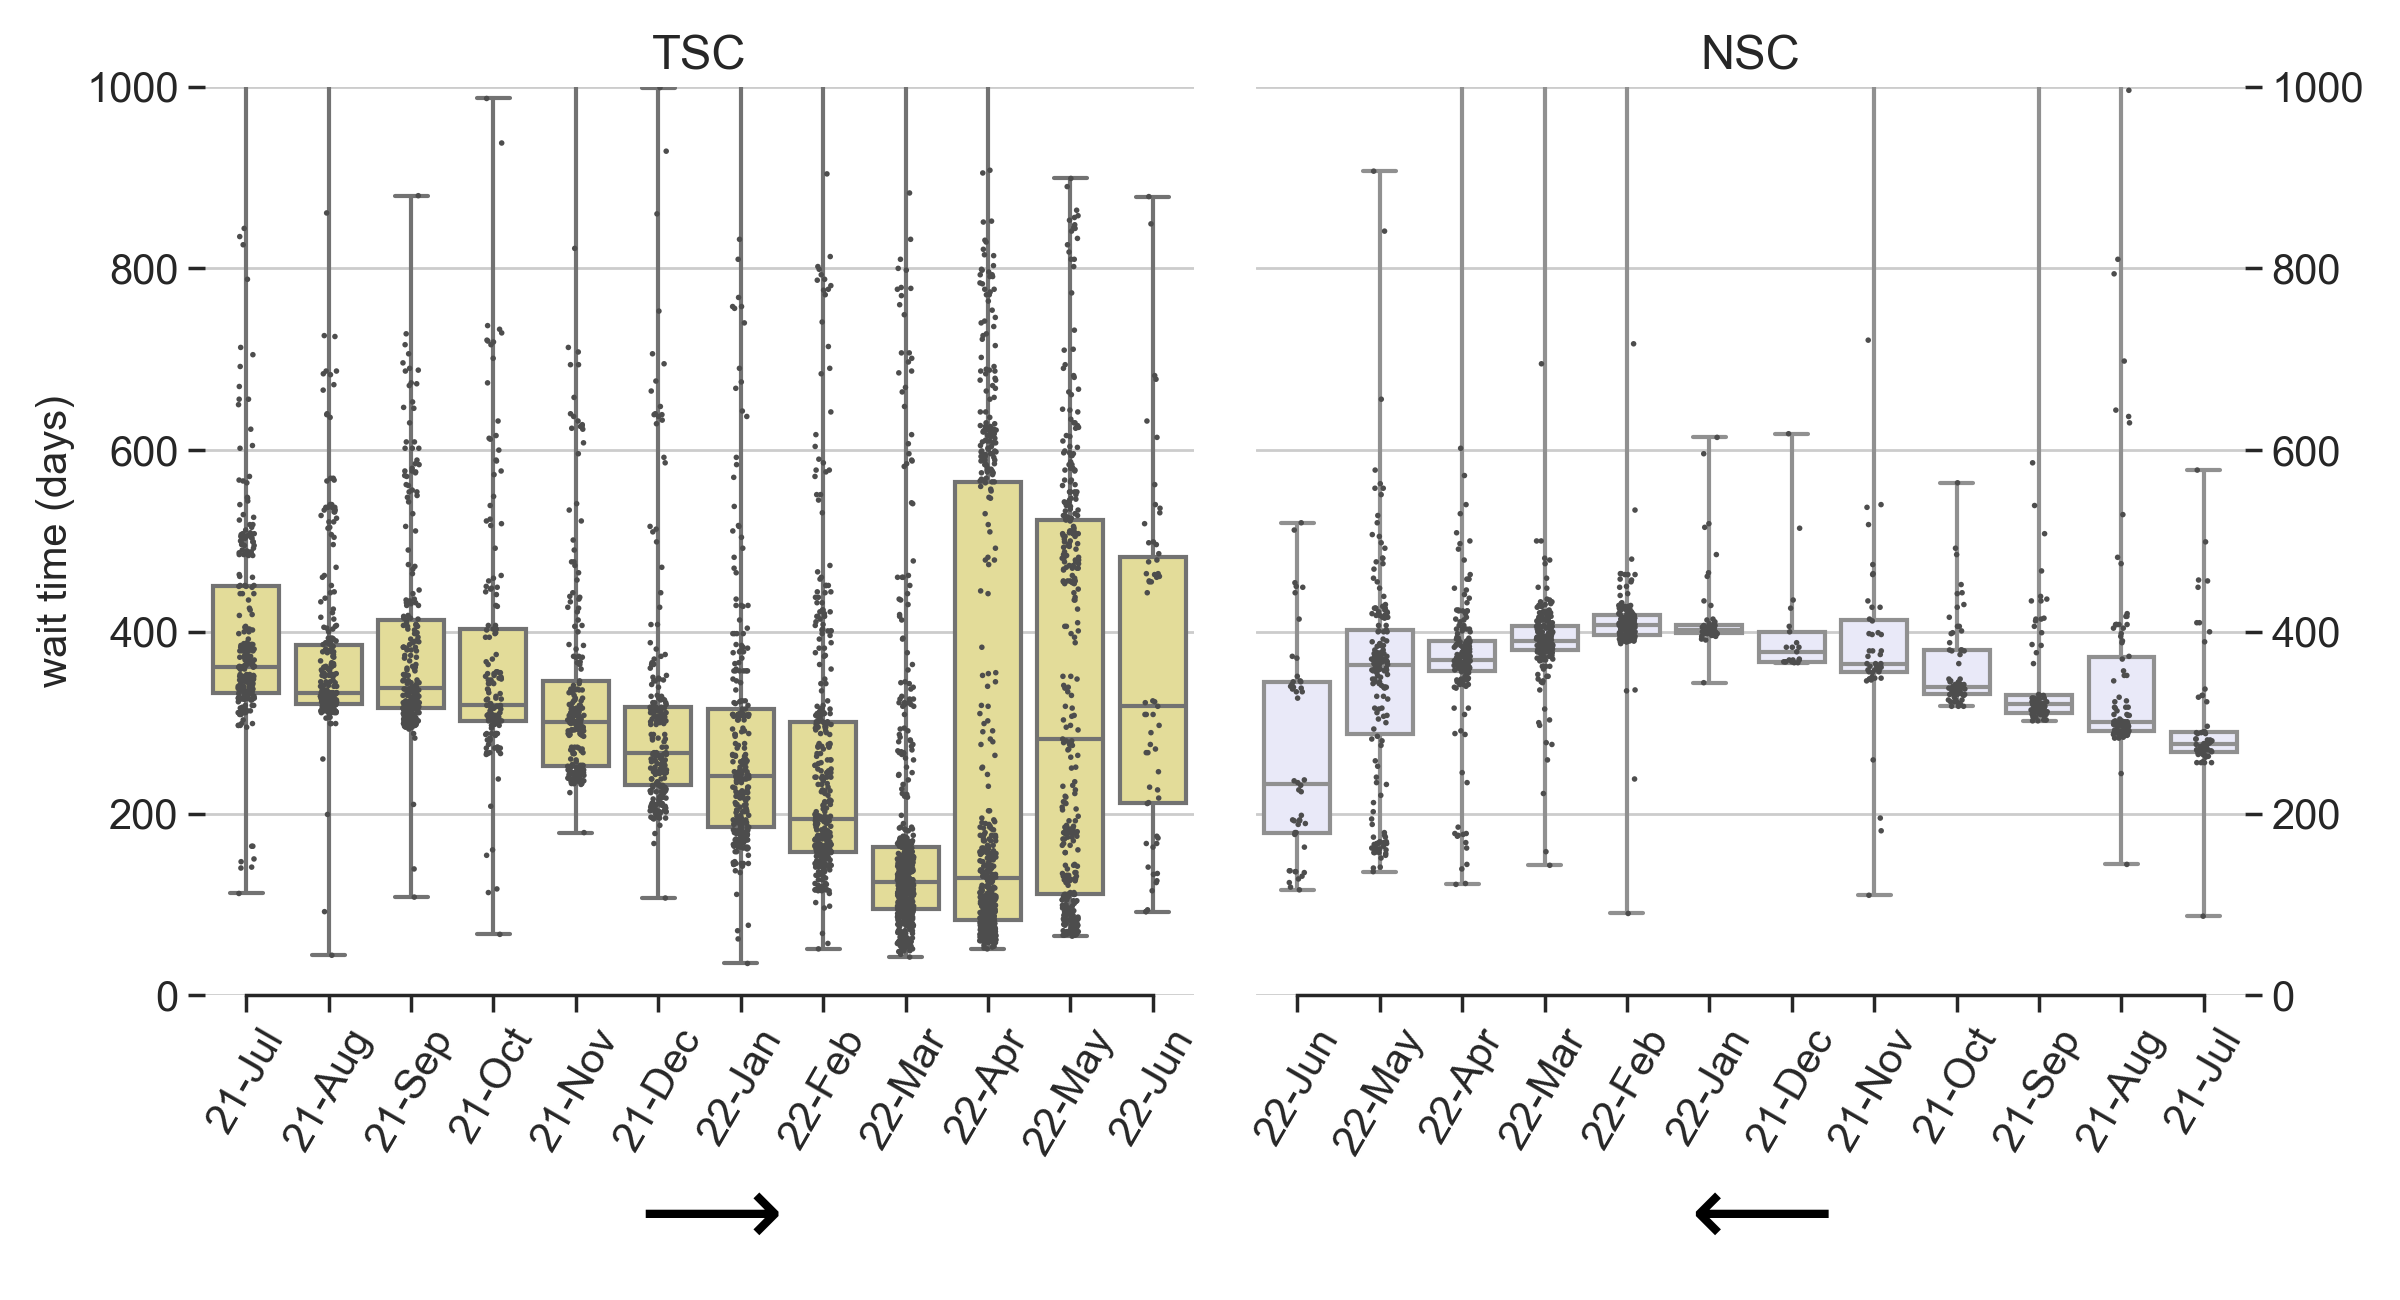
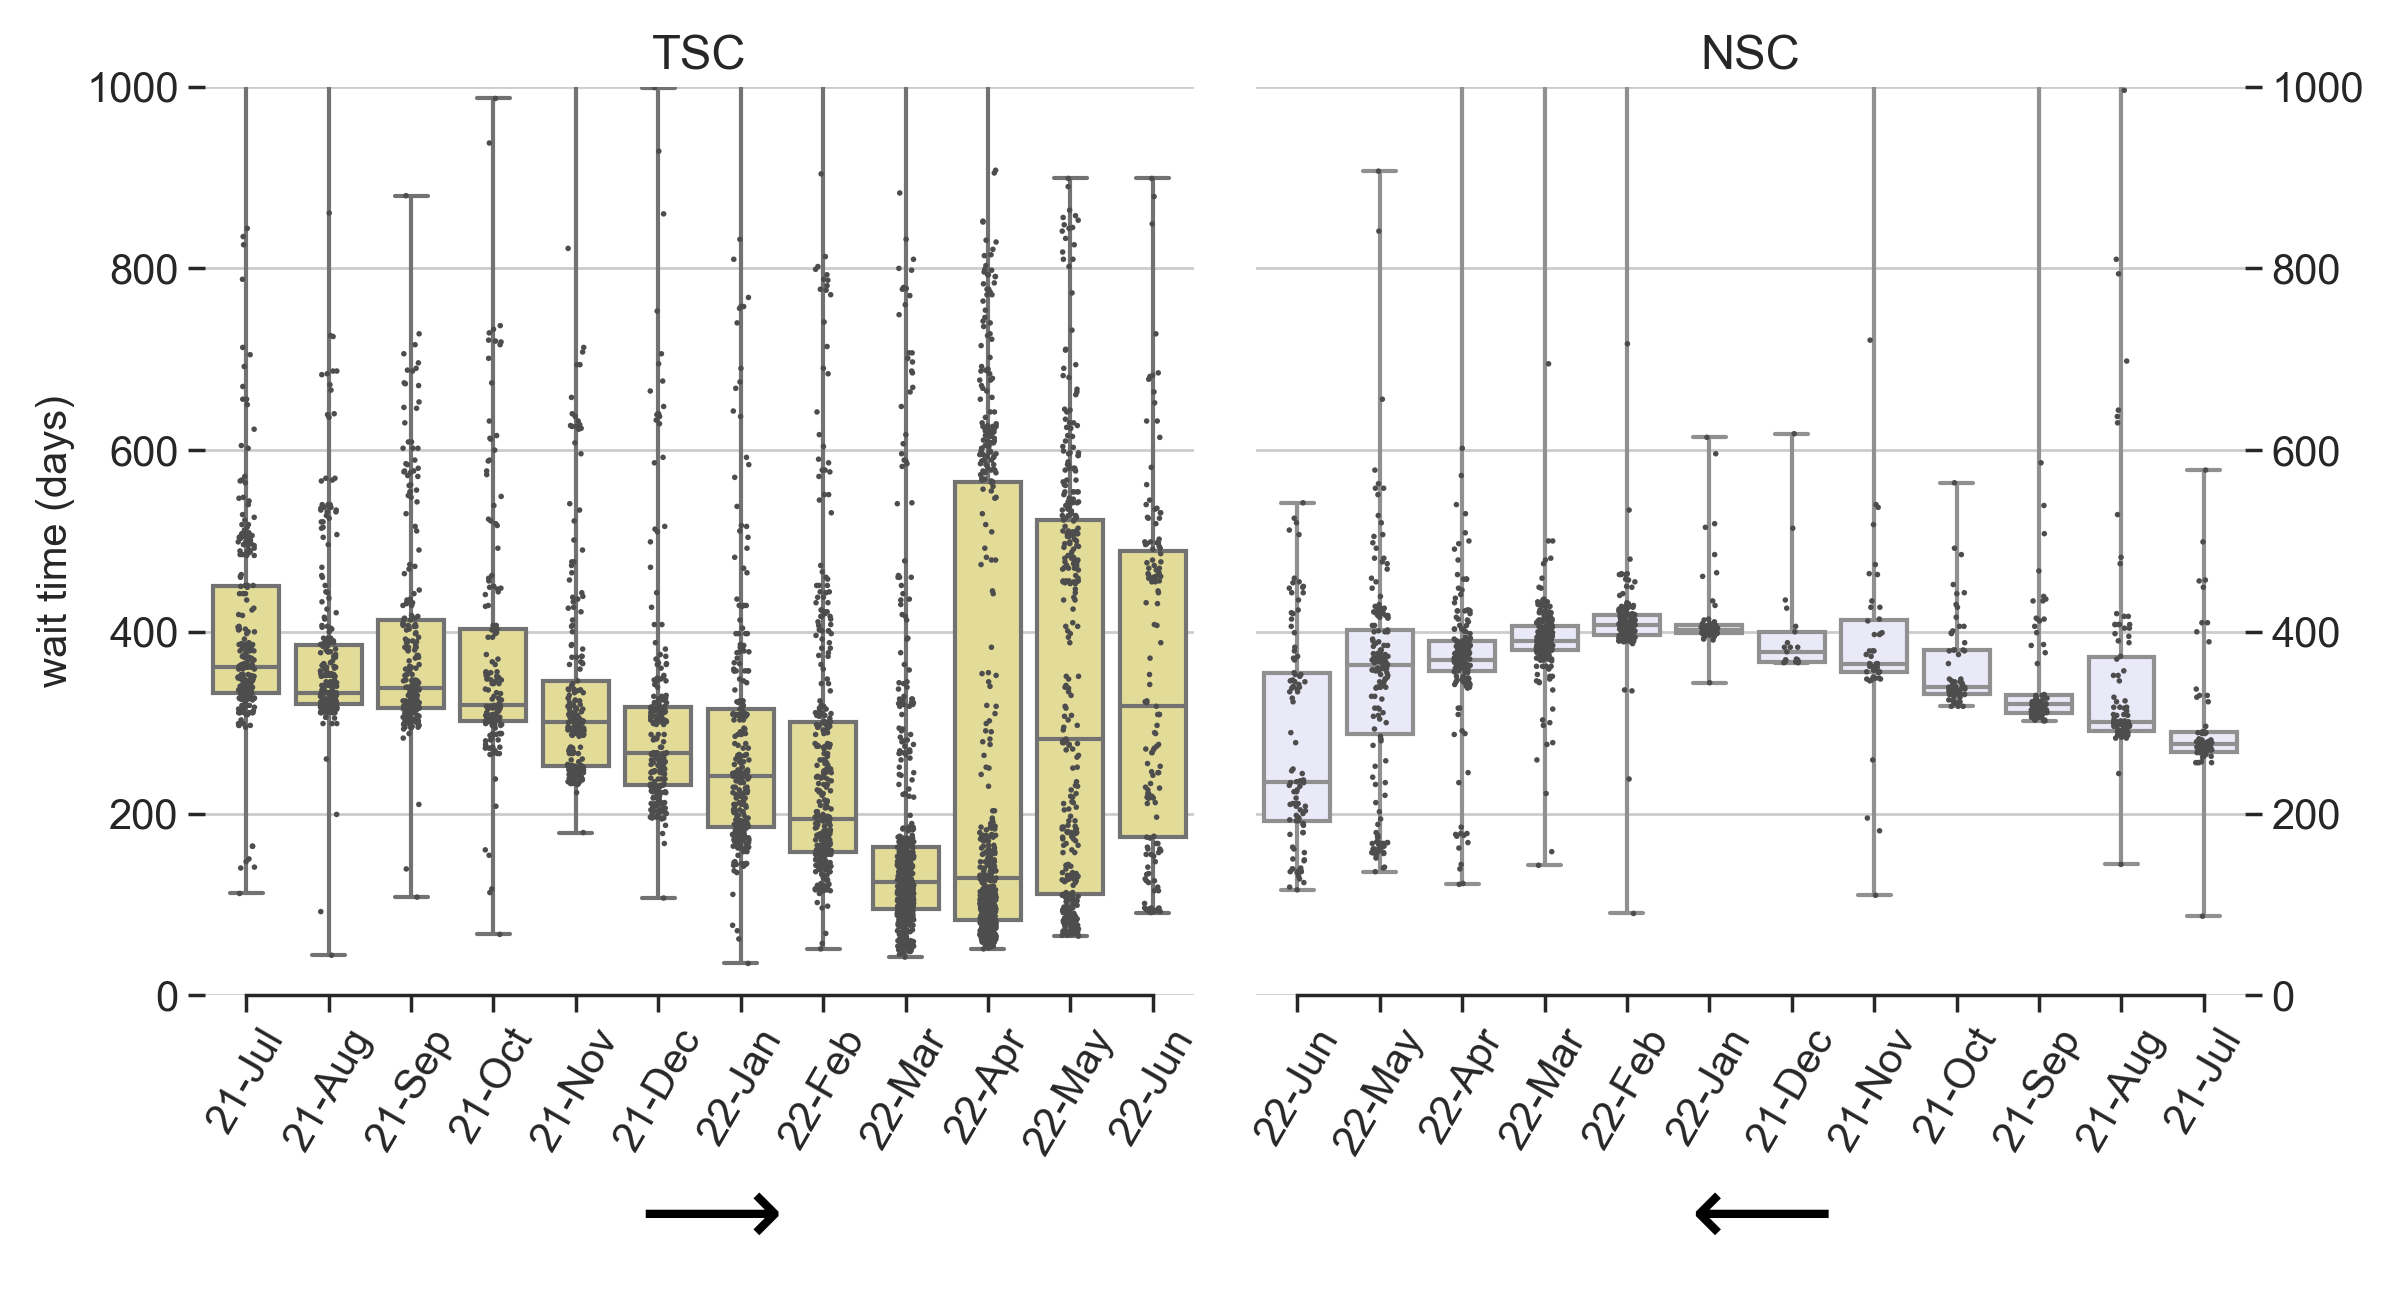
Jun-28 update

diff --git a/README.md b/README.md
@@ -1,4 +1,4 @@
-## National Interest Waiver Wait Time, updated Jun-18-2022 
+## National Interest Waiver Wait Time, updated Jun-28-2022 
 * If you wish to join our Telegram action group to discuss the delays of processing at TSC, please [fill out this form](https://docs.google.com/forms/d/194Vp6uimucdul6iqtNFB1HSKz_z75RKsQ-cp3z7f8YY/viewform?edit_requested=true).
  
 USCIS Employment-based-2 NIW I-140 wait time before approval (data source: [Victoria Chen](https://www.wegreened.com/eb1_niw_approvals)). 
